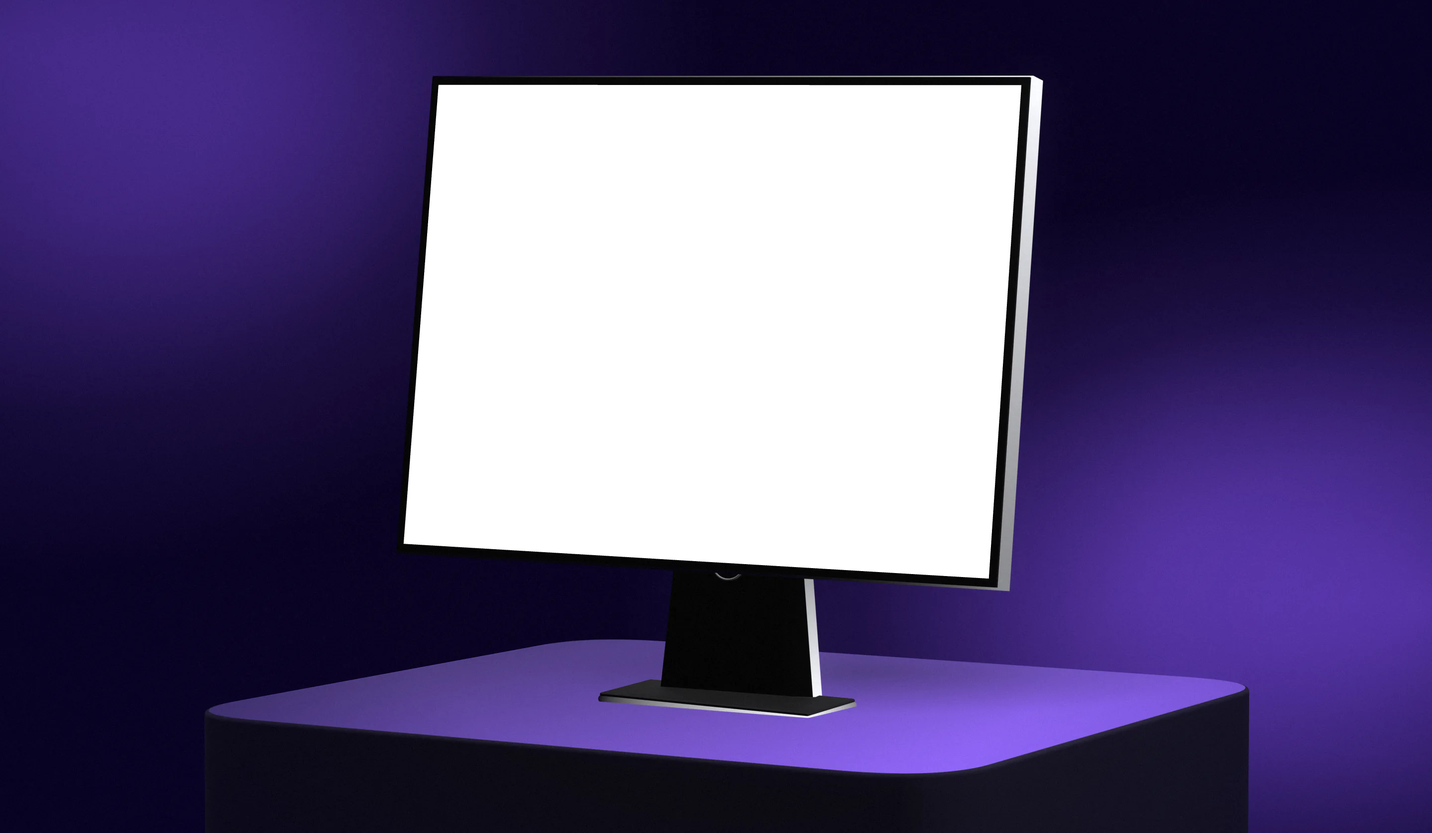
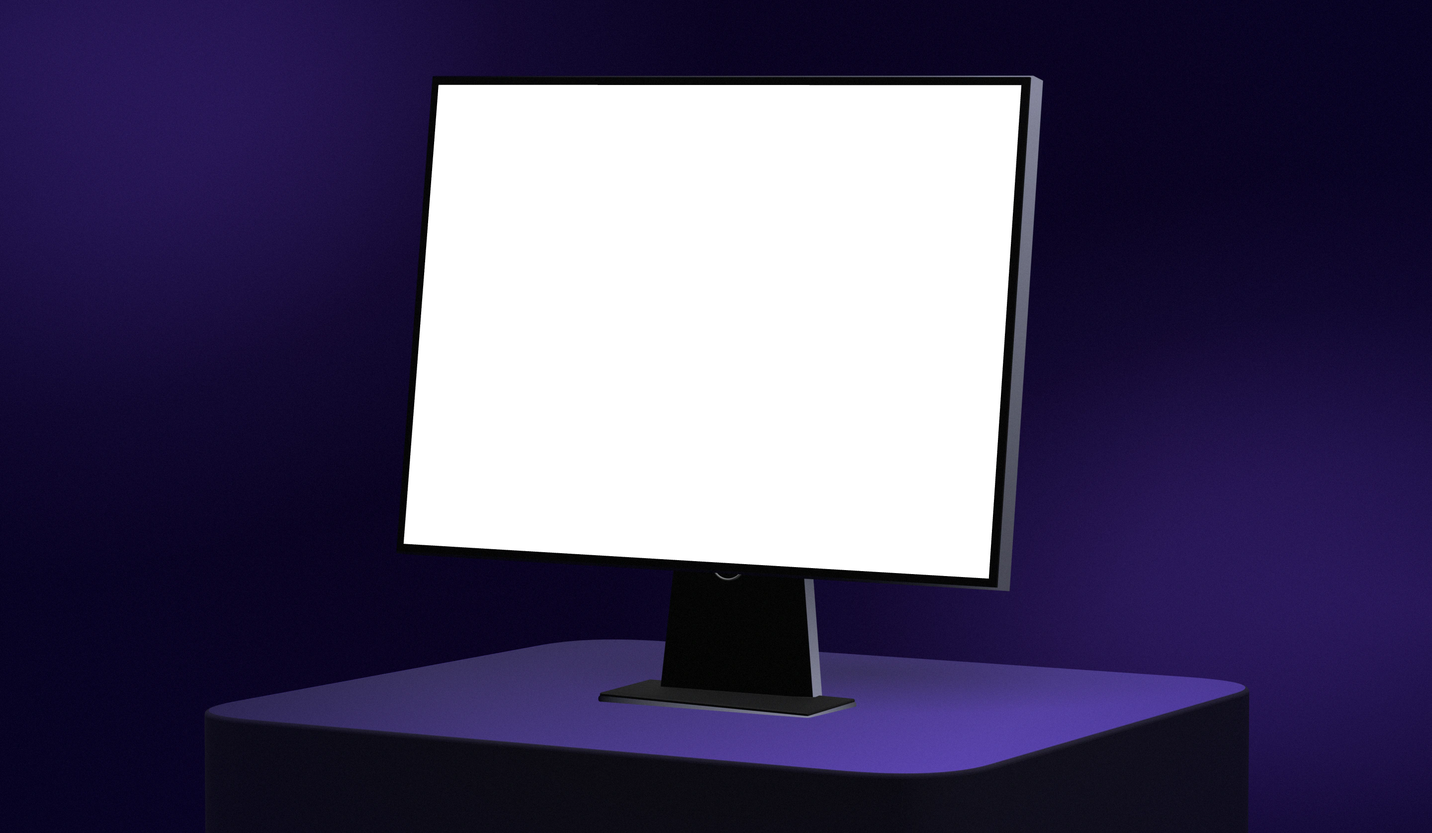
Devsign cover: whole scene again, darker surroundings so the screen leads

diff --git a/scripts/cover-3d/scene.html b/scripts/cover-3d/scene.html
@@ -12,7 +12,7 @@ const s=new THREE.Scene();const pm=new THREE.PMREMGenerator(r);s.environment=pm.
 const cam=new THREE.PerspectiveCamera(P.fov,W/H,.1,100);cam.position.set(...P.cam);cam.lookAt(...P.look);cam.updateMatrixWorld();
 const rig=new THREE.Group();rig.rotation.y=P.yaw;s.add(rig);
 const M=(c,ro,me=0)=>new THREE.MeshStandardMaterial({color:c,roughness:ro,metalness:me});
-const paint=(g,fn)=>{g.computeBoundingBox();const b=g.boundingBox,p=g.attributes.position,c=new Float32Array(p.count*3),dk=new THREE.Color('#07060f'),br=new THREE.Color('#f4f5fb'),t=new THREE.Color();for(let i=0;i<p.count;i++){const x=(p.getX(i)-b.min.x)/(b.max.x-b.min.x),y=(p.getY(i)-b.min.y)/(b.max.y-b.min.y),z=(p.getZ(i)-b.min.z)/(b.max.z-b.min.z||1);t.copy(dk).lerp(br,Math.min(1,Math.max(0,fn(x,y,z))));c[i*3]=t.r;c[i*3+1]=t.g;c[i*3+2]=t.b}g.setAttribute('color',new THREE.BufferAttribute(c,3));return new THREE.MeshBasicMaterial({vertexColors:true})};
+const paint=(g,fn)=>{g.computeBoundingBox();const b=g.boundingBox,p=g.attributes.position,c=new Float32Array(p.count*3),dk=new THREE.Color('#07060f'),br=new THREE.Color(P.edgeLit||'#f4f5fb'),t=new THREE.Color();for(let i=0;i<p.count;i++){const x=(p.getX(i)-b.min.x)/(b.max.x-b.min.x),y=(p.getY(i)-b.min.y)/(b.max.y-b.min.y),z=(p.getZ(i)-b.min.z)/(b.max.z-b.min.z||1);t.copy(dk).lerp(br,Math.min(1,Math.max(0,fn(x,y,z))));c[i*3]=t.r;c[i*3+1]=t.g;c[i*3+2]=t.b}g.setAttribute('color',new THREE.BufferAttribute(c,3));return new THREE.MeshBasicMaterial({vertexColors:true})};
 const add=(g,m,p,par=rig)=>{const o=new THREE.Mesh(g,m);o.position.set(...p);o.castShadow=o.receiveShadow=true;par.add(o);return o};
 const pl=P.pl;
 {const sh2=new THREE.Shape(),w=pl[0]/2,d=pl[2]/2,c=.3;sh2.moveTo(-w+c,-d);sh2.lineTo(w-c,-d);sh2.quadraticCurveTo(w,-d,w,-d+c);sh2.lineTo(w,d-c);sh2.quadraticCurveTo(w,d,w-c,d);sh2.lineTo(-w+c,d);sh2.quadraticCurveTo(-w,d,-w,d-c);sh2.lineTo(-w,-d+c);sh2.quadraticCurveTo(-w,-d,-w+c,-d);

diff --git a/app/globals.css b/app/globals.css
@@ -8122,8 +8122,6 @@ html[data-about-entering] .home-stage :is(.intro-surface, [class*="home-world-"]
 /* Gemini cover: the hand casts its shadow on the screen, and the photo holds still (only the recording moves), since a hand holding a phone doesn't zoom. */
 .dh-shot-shadow { position: absolute; z-index: 1; pointer-events: none; user-select: none; }
 .devsign-hero.dh-cover[data-project="gemini-privacy"] .dh-shot-camera { animation: none; }
-/* The push grows from the monitor's top edge, so the top is never cut. */
-.devsign-hero.dh-cover[data-project="devsign"] .dh-shot-camera { transform-origin: 50% 8%; }
 
 /* Case opener: the question leads, the project name is its label. */
 @media (min-width: 64rem) {

diff --git a/lib/cover-scenes.ts b/lib/cover-scenes.ts
@@ -11,7 +11,7 @@ export const COVER_SCENES: Record<string, CoverScene> = {
     src: "/images/devsign/cover-studio.webp",
     width: 1440, height: 838, mediaWidth: 1343, mediaHeight: 1000,
     matrix: "matrix3d(0.386063256, -0.00403789807, 0, -5.14754927e-05, -0.038678209, 0.460135074, 0, -8.08801034e-06, 0, 0, 1, 0, 439.34355, 83.8615, 0, 1)",
-    crop: [124, 52, 1203, 700], cropPhone: [370, 40, 720, 702], card: [24.5, 0, 1391, 838], cardPhone: [49.5, 0, 1341, 838],
+    cropPhone: [330, 30, 800, 780], card: [24.5, 0, 1391, 838], cardPhone: [49.5, 0, 1341, 838],
   },
   "gemini-privacy": {
     src: "/images/cases/gemini-privacy/cover-hand.webp",
